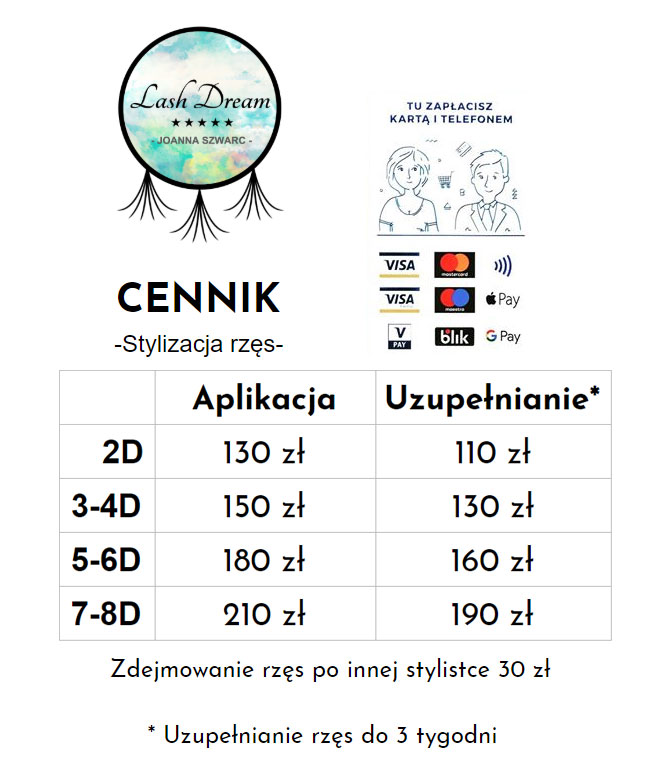
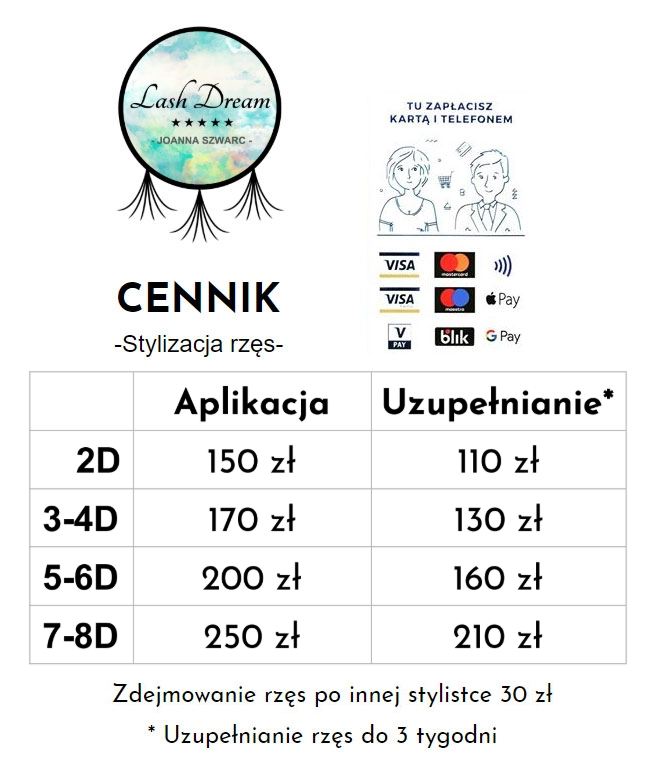
Nowy system rezerwacji - mozliwosc wyboru

diff --git a/rejestracja.html b/rejestracja.html
@@ -1,0 +1,253 @@
+<!DOCTYPE html>
+<html lang="pl">
+
+<head>
+  <meta charset="utf-8">
+  <meta name="viewport" content="width=device-width, initial-scale=1">
+  <title>★ Rezerwacja terminu wizyty. Przedłużanie rzęs Warszawa Praga Południe 👍</title>
+  <meta name="description" content="Rezerwacje online. Metoda 2-3D 130zł, 4-5D 160zł, 6D 190zł.">
+  <meta name="keywords" content="przedłużanie rzęs stylizacja zagęszczanie kocie oko kępki rzęsy oczy uroda">
+
+  <link rel="stylesheet" type="text/css" href="https://fonts.googleapis.com/css?family=Fira+Sans|Roboto:300,400|Questrial|Satisfy">
+  <link rel="stylesheet" type="text/css" href="css/fonts.css">
+  <link rel="stylesheet" type="text/css" href="css/font-awesome.min.css">
+  <link rel="stylesheet" type="text/css" href="css/bootstrap.min.css">
+  <link rel="stylesheet" type="text/css" href="css/animate.css">
+  <link rel="stylesheet" type="text/css" href="css/style.css">
+  <link rel="stylesheet" type="text/css" class="ui" href="https://semantic-ui.com/dist/semantic.min.css">
+  <link rel="stylesheet" type="text/css" class="ui" href="css/semantic.min.css">
+
+  <script src="js/jquery-2.1.4.js"></script>
+  <script src="js/semantic.min.js"></script>
+
+  <!-- Global site tag (gtag.js) - Google Analytics -->
+  <script async src="https://www.googletagmanager.com/gtag/js?id=UA-118788983-1"></script>
+  <script>
+    window.dataLayer = window.dataLayer || [];
+    function gtag(){dataLayer.push(arguments);}
+    gtag('js', new Date());
+    gtag('config', 'UA-118788983-1');
+  </script>
+
+  <!-- Hotjar Tracking Code for lashdream.pl -->
+  <script>
+      (function(h,o,t,j,a,r){
+          h.hj=h.hj||function(){(h.hj.q=h.hj.q||[]).push(arguments)};
+          h._hjSettings={hjid:871239,hjsv:6};
+          a=o.getElementsByTagName('head')[0];
+          r=o.createElement('script');r.async=1;
+          r.src=t+h._hjSettings.hjid+j+h._hjSettings.hjsv;
+          a.appendChild(r);
+      })(window,document,'https://static.hotjar.com/c/hotjar-','.js?sv=');
+  </script>
+
+  <script type="text/javascript" src="https://cdn.emailjs.com/sdk/2.1.0/email.min.js"></script>
+  <script type="text/javascript">(function(){ emailjs.init("user_TuybsFctQQeHmUSgacGvH"); })();</script>
+
+  <script>
+
+  var switch_view = function(fromStep, toStep) {
+    $(fromStep).fadeOut("slow", function() {
+      $(toStep).fadeIn("slow");
+      $("html, body").animate({ scrollTop: 0 }, "slow");
+    })
+  }
+
+  var reservation = function(chosen_service, phone_number, customer_name, chosen_date) {
+    if (phone_number.length < 9 || Boolean(phone_number.match(/[A-z]/g))) {
+      alert("Wpisano niepoprawny numer telefonu. Numer musi składać się z co najmniej 9 cyfr.")
+      return
+    }
+
+    if (customer_name.length == 0) {
+      alert("Proszę podać imię")
+      return 
+    }
+
+    if (chosen_date.length == 0) {
+      alert("Proszę określić preferowany termin wizyty")
+      return 
+    }
+
+    var template_params = {
+      chosen_service: chosen_service,
+      chosen_date: chosen_date,
+      phone_number: phone_number,
+      customer_name: customer_name
+    };
+
+    $("#reservation_button").addClass("loading disabled")
+
+    emailjs.send('mailgun', 'umowienie_wizyty', template_params).then(function(response) {
+         console.log('SUCCESS!', response.status, response.text);
+        switch_view("#confirmation-div", "#step_success")
+      }, function(error) {
+         console.log('FAILED...', error);
+          switch_view("#confirmation-div", "#step_failure")
+      });
+  }
+  </script>
+
+</head>
+
+<body id="myPage" data-spy="scroll" data-target=".navbar" data-offset="60">
+
+  <section style="text-align: center; padding: 20px">
+    <img src="img/lashdream-logo.png" width="170" />
+  </section>
+
+  <section id="reservation" class="section-padding wow fadeIn delay-05s" style="padding-bottom: 100px">
+    <div class="container">
+      <div class="row">
+        <div class="col-md-12 text-right" style="margin-top: 30px">
+
+            <div id="confirmation-div">
+                    
+              <h2 class="title-text">
+                Wybierz system rezerwacyjny i zobacz terminy w Booksy lub Versum...
+              </h2>
+              <br />
+
+              <div style="width: 500px; height: 120px; margin: auto">
+                <a href="https://cdl.booksy.com/SKQ2JxeXBT">
+                  <img src="img/booksy.png" alt="Booksy" style="width: 200px; float: left; border: 1px dashed #888" />
+                </a>
+                <a href="http://lashdream.versum.pl">
+                  <img src="img/versum.png" alt="Moment" style="width: 200px; float: right; border: 1px dashed #888" />
+                </a>
+              </div>
+
+              <h2 class="title-text">
+               ... lub sama zaproponuj termin i wypełnij formularz:
+              </h2>
+              <br />
+
+              <div style="width: 100%; margin-bottom: 10px;">
+                <div class="ui label reservation-input" style="width: 100%;">
+                  <i class="heart icon"></i>
+                  Proszę wybrać rodzaj stylizacji:
+                </div>
+                <div class="ui fluid selection dropdown">
+                  <input type="hidden" id="chosen_service">
+                  <i class="dropdown icon"></i>
+                  <div class="default text">Proszę wybrać z listy</div>
+                  <div class="menu">
+                    <div class="item" data-value="przedluzanie 2d">
+                      Stylizacja 2D (150 zł, około 2.5h)
+                    </div>
+                    <div class="item" data-value="przedluzanie 3-4d">
+                      Stylizacja 3-4D (170 zł, około 2.5h)
+                    </div>
+                    <div class="item" data-value="przedluzanie 5-6d">
+                      Stylizacja 5-6D (200 zł, około 2.5h)
+                    </div>
+                    <div class="item" data-value="przedluzanie 7-8d">
+                      Stylizacja 7-8D (250 zł, około 2.5h)
+                    </div>
+                    <div class="item" data-value="uzupelnianie 2d">
+                      Uzupełnianie 2D (110 zł, około 2.5h, max do 3 tyg. od ostatniej aplikacji)
+                    </div>
+                    <div class="item" data-value="uzupelnianie 3-4d">
+                      Uzupełnianie 3-4D (130 zł, około 2.5h, max do 3 tyg. od ostatniej aplikacji)
+                    </div>
+                    <div class="item" data-value="uzupelnianie 5-6d">
+                      Uzupełnianie 5-6D (160 zł, około 2.5h, max do 3 tyg. od ostatniej aplikacji)
+                    </div>
+                    <div class="item" data-value="uzupelnianie 7-8d">
+                      Uzupełnianie 7-8D (210 zł, około 2.5h, max do 3 tyg. od ostatniej aplikacji)
+                    </div>
+                    <div class="item" data-value="zdejmowanie">
+                      Zdejmowanie rzęs (30 zł, około 0.5h)
+                    </div>
+                  </div>
+                </div>
+              </div>
+
+              <script>$('.ui.dropdown').dropdown();</script>
+
+              <div style="width: 100%; margin-bottom: 10px;">
+                <div class="ui label reservation-input" style="width: 100%;">
+                  <i class="phone icon"></i>
+                  Proszę podać numer telefonu:
+                </div>
+                <div class="ui input" style="width: 100%;">
+                  <input type="text" id="phone">
+                </div>
+              </div>
+
+              <div style="width: 100%; margin-bottom: 10px;">
+                <div class="ui label reservation-input" style="width: 100%;">
+                  <i class="user icon"></i>
+                  Imię i nazwisko:
+                </div>
+                <div class="ui input" style="width: 100%;">
+                  <input type="text" id="name">
+                </div>
+              </div>
+
+              <div style="width: 100%; margin-bottom: 10px;">
+                <div class="ui label reservation-input" style="width: 100%;">
+                  <i class="calendar icon"></i>
+                  Jaki termin Panią interesuje?
+                </div>
+                <div class="ui input" style="width: 100%;">
+                  <input type="text" id="termin">
+                </div>
+              </div>
+
+               <span id="step3_txt"><b>Przetwarzanie danych osobowych:</b> Imię i nazwisko oraz numer telefonu są przeze mnie wykorzystywane tylko i wyłącznie do kontaktu w celu potwierdzenia rezerwacji oraz zarezerwowania terminu na podane dane. Po odebraniu Twojej rezerwacji <span style="color: #e61a8d">jeszcze dzisiaj</span> otrzymasz ode mnie potwierdzenie umówienia wizyty.</span>
+
+               <br /><br />
+
+             <button id="reservation_button" class="ui big labeled teal icon button" onclick="reservation($('#chosen_service').val(), $('#phone').val(), $('#name').val(), $('#termin').val())">
+              <i class="calendar check outline icon"></i>
+              Akceptuję i rezerwuję wizytę
+             </button>
+            </div>
+
+          <div id="step_success">
+
+            <div id="success-div">
+              <h2 class="title-text">
+                Dziękuję!
+              </h2>
+              <br />
+
+              Prośba o rezerwację wizyty została do mnie wysłana.
+              <span style="color: #e61a8d">Dzisiaj</span> skontaktuję się z Tobą z potwierdzeniem umówienia wizyty!
+              <br /><br /><br />
+              <span style="font-size: 2em">
+                <i class="phone volume icon"></i>
+                <i class="mobile alternate icon"></i>
+                <i class="comment outline icon"></i>
+              </span>
+            </div>
+          </div>
+
+          <div id="step_failure">
+
+            <div id="failure-div">
+              <h2 class="title-text">
+                Wystąpił błąd <i class="frown outline icon"></i>
+              </h2>
+              <br />
+
+              Niestety wystąpił nieoczekiwany błąd podczas wysyłania wiadomości.<br /><br />
+              Proszę o kontakt poprzez sms:<br /><span style="color: #e61a8d">+48 881 378 603</span><br /><br />
+              lub wiadomość email:<br /><span style="color: #e61a8d">joanna.lashdream@gmail.com</span>
+            </div>
+          </div>
+
+        </div>
+      </div>
+    </div>
+  </section>
+
+  <script src="js/jquery.easing.min.js"></script>
+  <script src="js/bootstrap.min.js"></script>
+  <script src="js/wow.js"></script>
+  <script src="js/custom.js"></script>
+
+</body>
+
+</html>

diff --git a/css/style.css b/css/style.css
@@ -138,8 +138,8 @@ Responsive media queries
     min-height: 400px;
 }
 #reservation{
-    background: url('../img/about-banner-left.jpg') no-repeat;
-    background-size: cover;
+    /*background: url('../img/about-banner-left.jpg') no-repeat;*/
+    /*background-size: cover;*/
     margin-bottom: -3px;
     min-height: 400px;
 }
@@ -151,9 +151,9 @@ Responsive media queries
 	margin-bottom: 50px;
 }
 .title-text{
-	padding: 0px 25px 0px 0px;
-	border-right: 5px solid #15d6c6;
-	font-size: 24px;
+	padding: 0px 0px 0px 25px;
+	border-left: 5px solid #15d6c6;
+	font-size: 20px;
 }
 .about-text {
     padding-top: 0px;
@@ -387,8 +387,7 @@ footer {
 }
 
 #confirmation-div {
-    float: right;
-    margin-bottom: 20px;
+    margin: auto;
     width: 55%;
     text-align: left;
 }
@@ -403,15 +402,15 @@ footer {
 }
 
 #success-div, #failure-div {
-    width: 400px; 
-    float: right; 
-    text-align: center; 
+    margin: auto;
+    width: 55%;
+    text-align: left;
     font-size: 1.5em; 
     font-weight: 100
 }
 
 #reservation_button {
-    width: 55%;
+    width: 70%;
 }
 
 .reservation-input {

diff --git a/index.html b/index.html
@@ -326,7 +326,7 @@
       </section>
 
     </div>
-    <a href="https://lashdream.versum.com/" onclick="ga('send', 'event', 'Go to reservation', 'click', 'button');">
+    <a href="rejestracja.html" onclick="ga('send', 'event', 'Go to reservation', 'click', 'button');">
       <div style="height: 70px; background: #00b5ad; text-align: center;">
         <button class="ui right labeled icon big teal button" style="margin: 5px">
           <i class="right arrow icon" id="rezerwuj" style="background: none; font-size: 2em; padding-left: 10px"></i>
